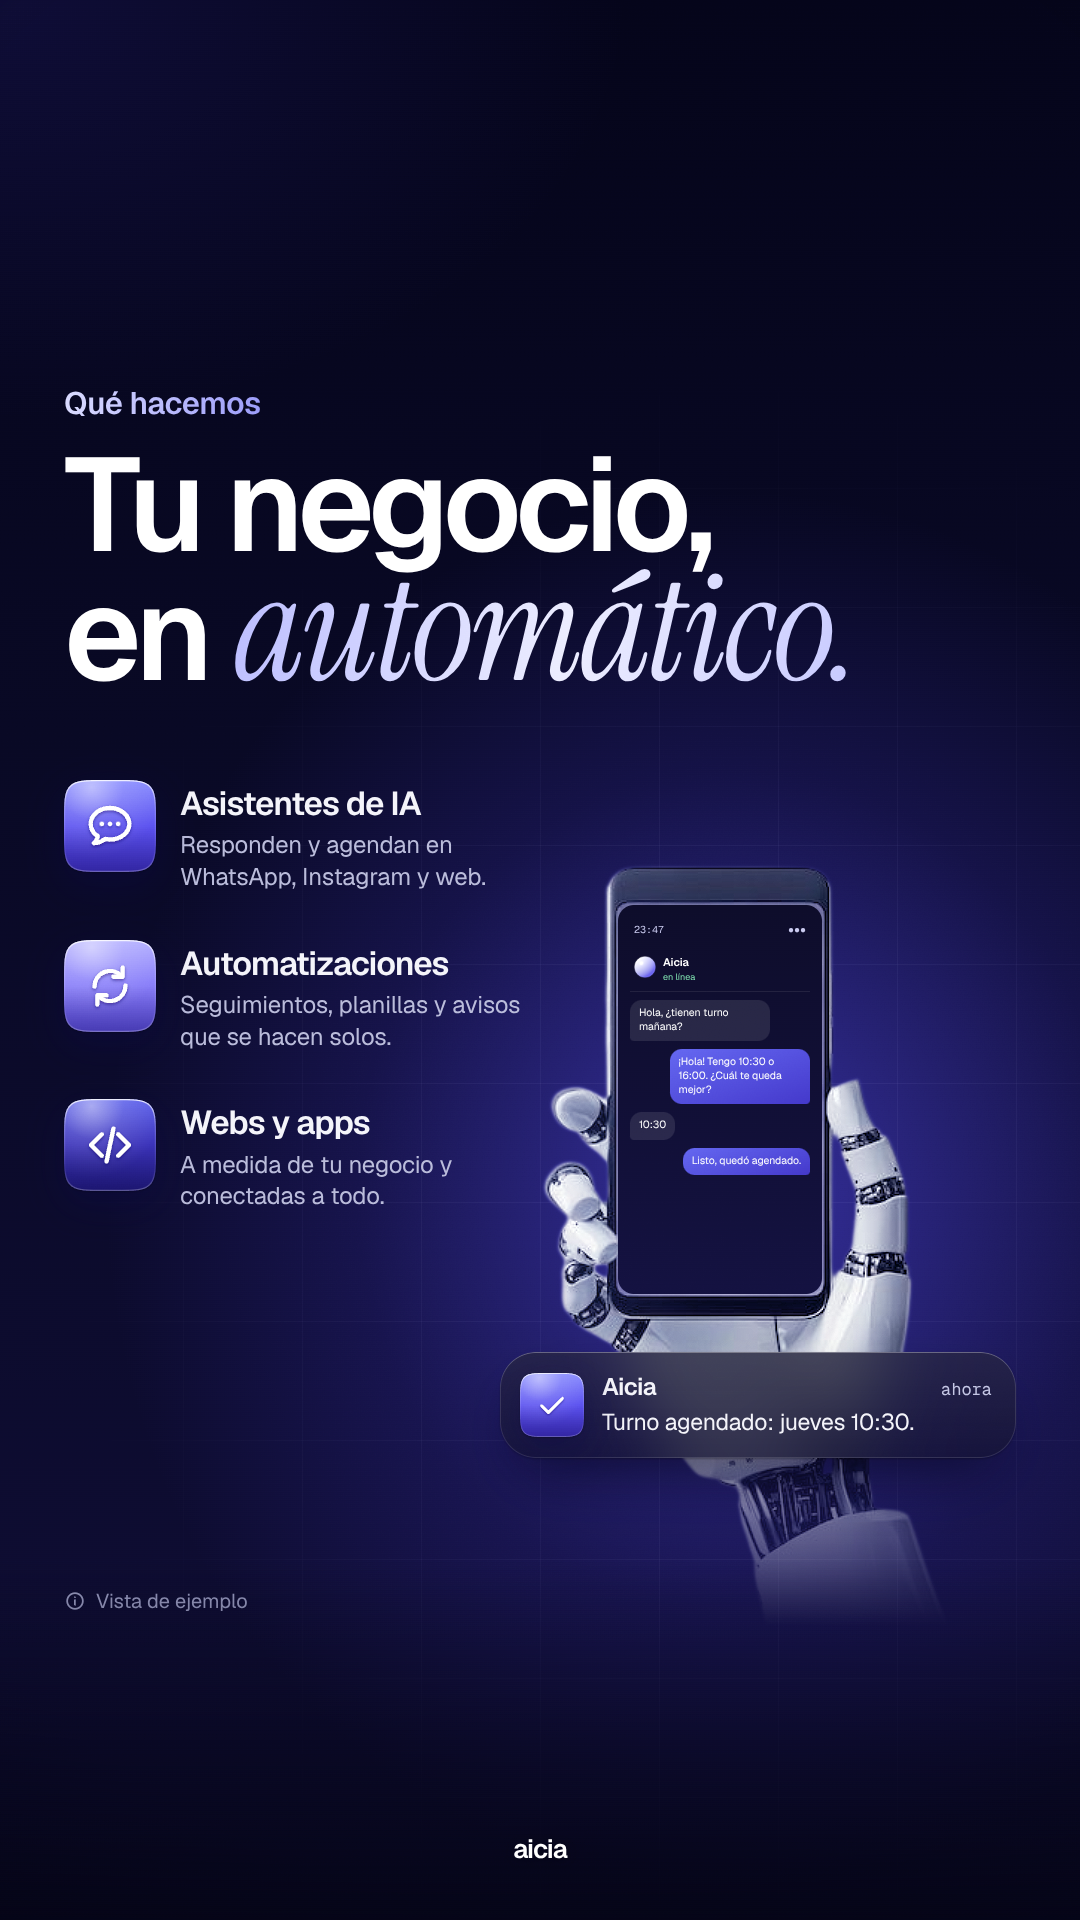
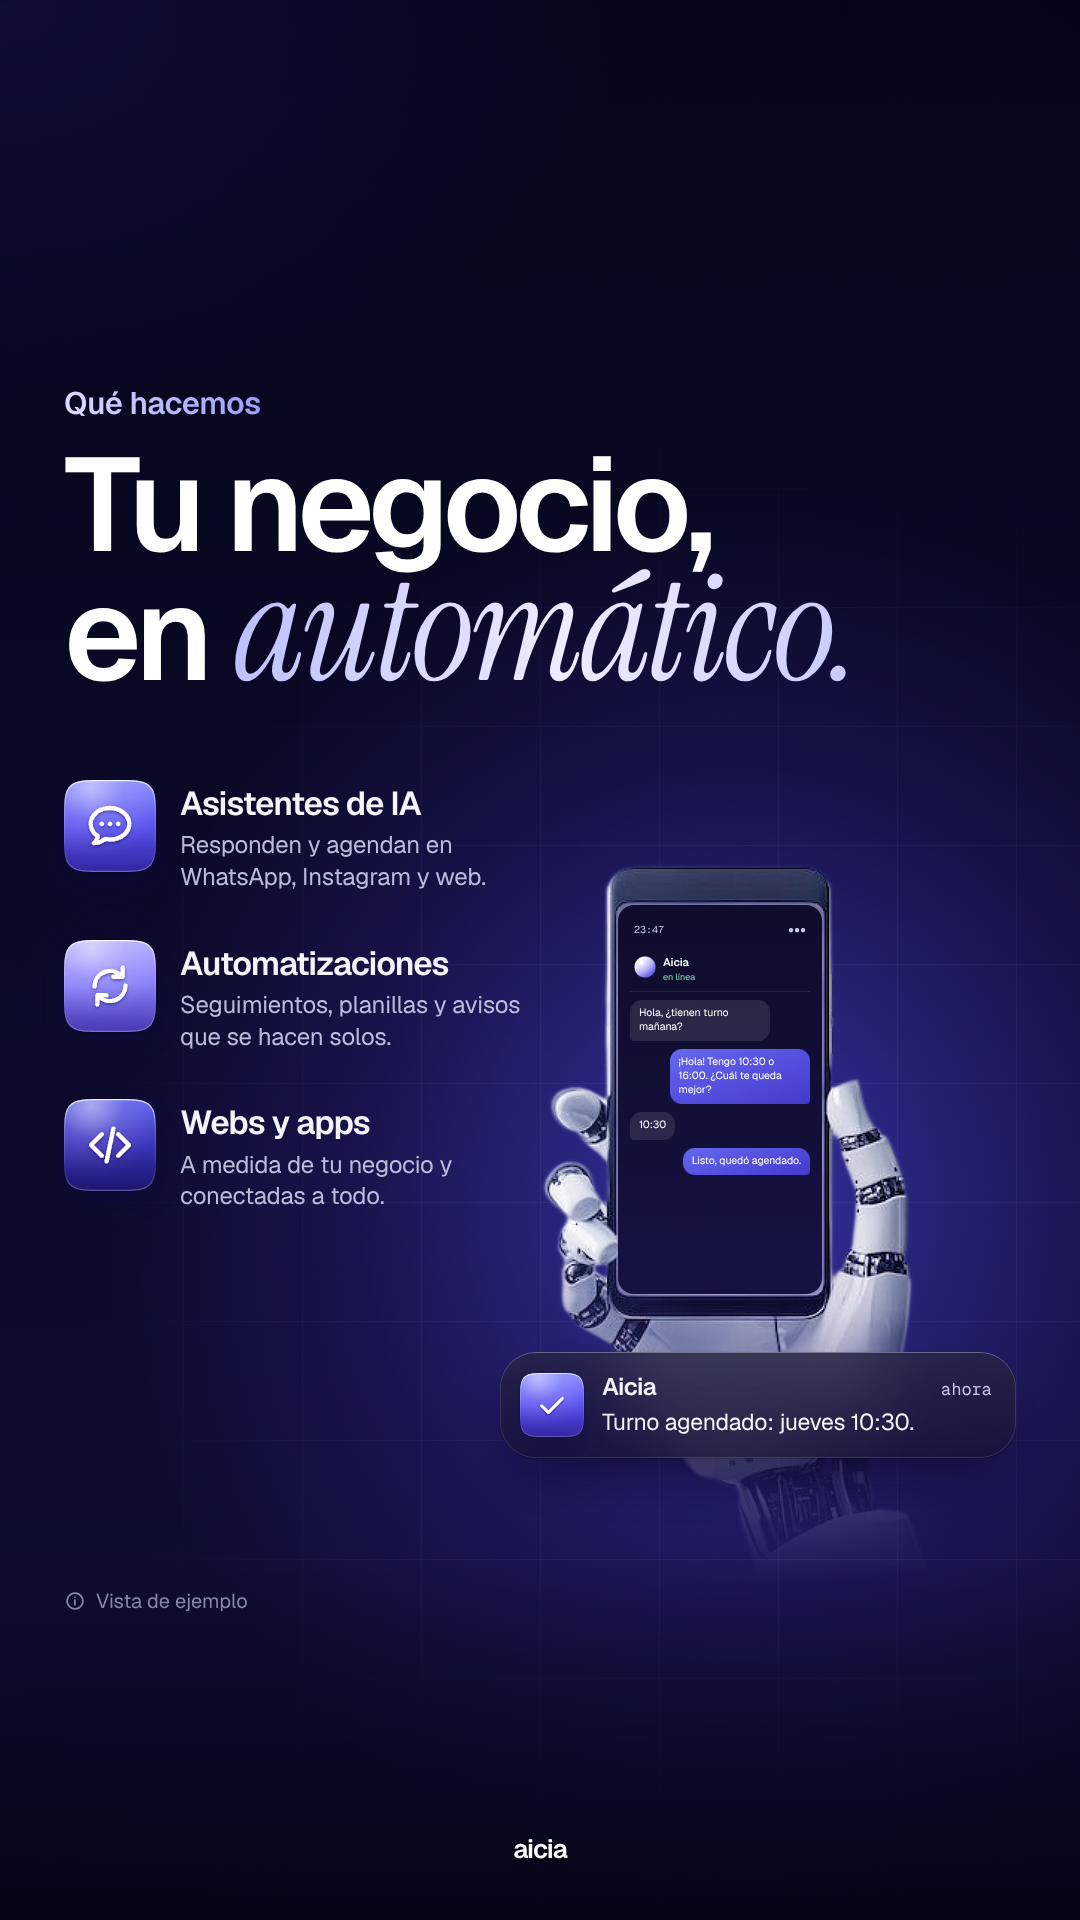
Historia 03: fundido inferior de la mano más suave
Degradé de transparencia escalonado para que el antebrazo se disuelva
sin que se vea el corte recto de la imagen.

Claude-Session: https://claude.ai/code/session_01SBSshHAET78NiDLxszLW9R

Changed region(s): [[0.6417, 0.75, 0.8556, 0.8438], [0.55, 0.6562, 0.825, 0.7188]]

diff --git a/historias/destacada-aicia/destacada.html b/historias/destacada-aicia/destacada.html
@@ -38,7 +38,7 @@ body{display:flex;flex-direction:column;align-items:center;gap:80px;padding:80px
 .subj{z-index:2;isolation:isolate}
 .subj > *{position:absolute;inset:0;width:100%;height:100%}
 .subj img{display:block;filter:url(#cut)}
-.subj.fade{-webkit-mask-image:linear-gradient(180deg,#000 70%,transparent 97%);mask-image:linear-gradient(180deg,#000 70%,transparent 97%)}
+.subj.fade{-webkit-mask-image:linear-gradient(180deg,#000 0%,#000 56%,rgba(0,0,0,.86) 63%,rgba(0,0,0,.62) 70%,rgba(0,0,0,.38) 77%,rgba(0,0,0,.18) 83%,rgba(0,0,0,.06) 88%,transparent 92%);mask-image:linear-gradient(180deg,#000 0%,#000 56%,rgba(0,0,0,.86) 63%,rgba(0,0,0,.62) 70%,rgba(0,0,0,.38) 77%,rgba(0,0,0,.18) 83%,rgba(0,0,0,.06) 88%,transparent 92%)}
 .subj .tint,.subj .rim{-webkit-mask-size:100% 100%;mask-size:100% 100%;-webkit-mask-repeat:no-repeat;mask-repeat:no-repeat}
 .subj .tint{background:linear-gradient(180deg,#6366F1,#3B32B8);mix-blend-mode:color;opacity:var(--tint,.28)}
 .subj .rim{mix-blend-mode:screen;opacity:var(--rim,.55)}
